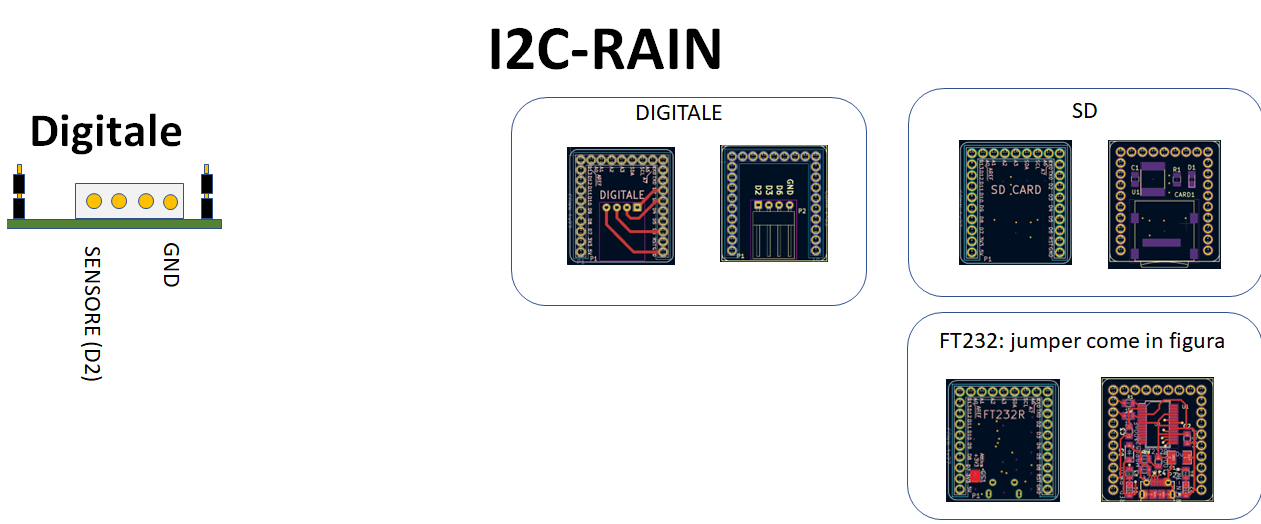
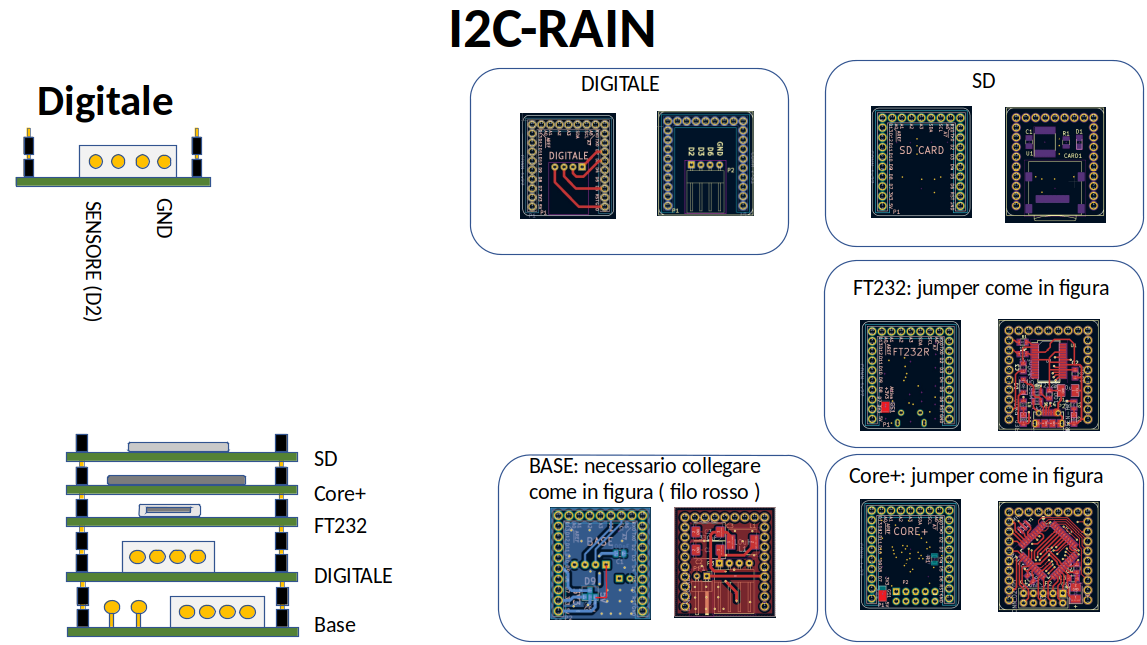
updated stima v3.2 doc

diff --git a/doc/sphinx/stima_v3/howto_stima_v3.2/howto_stima_v3.2.rst b/doc/sphinx/stima_v3/howto_stima_v3.2/howto_stima_v3.2.rst
@@ -68,6 +68,11 @@ Per il collegamento del sensore Radiometro ( come mostrato in foto ) collegare:
 
 |image10|
 
+Questo il cavo di colegamento al piranometro:
+
+|image_piranometro|
+
+
 i2c-wind
 ~~~~~~~~
 
@@ -90,10 +95,12 @@ Schema di collegamento
 In figura è riportato lo schema di collegamento del quadro:
 
 |image7|
+|image_schema_generale|
 
 Segue invece schema dettaglio della morsettiera di confine:
 
 |image8|
+
 
 .. |image0| image:: ./img/totale.png
 .. |image1| image:: ./img/Stima.png
@@ -106,3 +113,5 @@ Segue invece schema dettaglio della morsettiera di confine:
 .. |image8| image:: ./img/morsettiera.png
 .. |image9| image:: ./img/complessivo.jpg
 .. |image10| image:: ./img/foto_morsettiera.jpg
+.. |image_piranometro| image:: ./img/piranometro.png
+.. |image_schema_generale| image:: ./img/schema_generale.png
